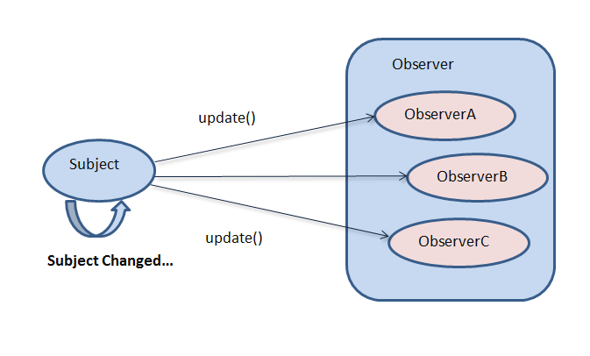
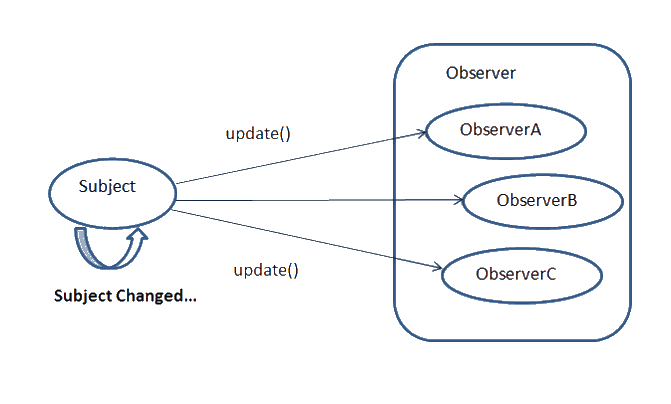
Fix mistakes and change picture

diff --git a/EN/07-Design-Patterns-and-Best-Practices/02-Common-Design-Patterns.md b/EN/07-Design-Patterns-and-Best-Practices/02-Common-Design-Patterns.md
@@ -231,7 +231,7 @@ In this way, the decorated ebook reader would have an additional property and th
 [stream language="RO" videoId="497193882/25a78c5ed5"  /]
 [/video-vimeo]
 
-[image assetsSrc="design-patterns-14.png" /]
+[image assetsSrc="js-application-design-patterns-14.png" /]
 
 The **facade pattern** is used a lot in multi-layer applications where only certain logic and functionality need to be exposed to different clients, shielding them from any complex business logic that clients do not need to be concerned with. 
 
